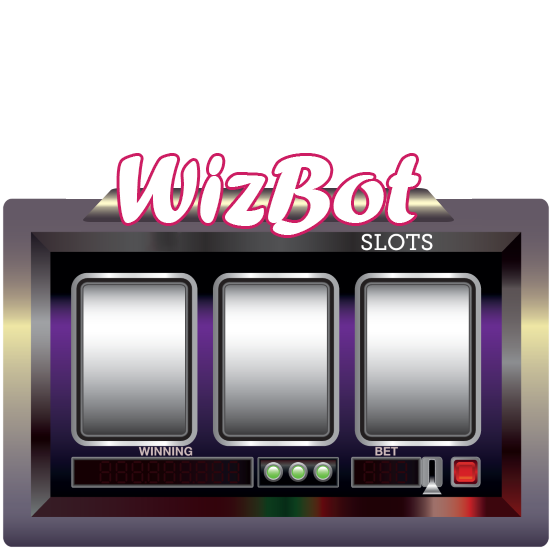
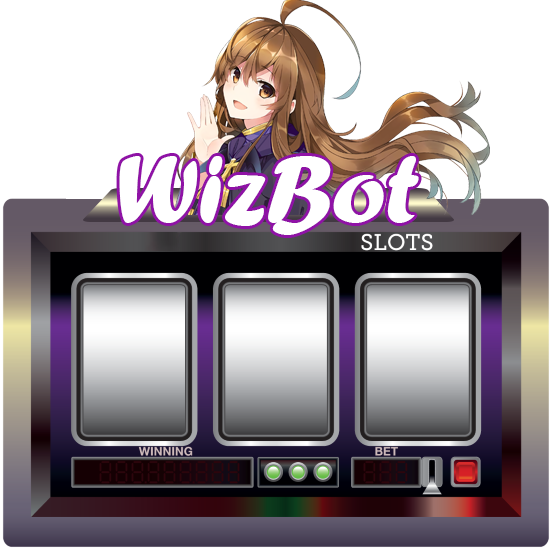
slot max bet increased to 9999

diff --git a/src/WizBot/Modules/Gambling/Commands/Slots.cs b/src/WizBot/Modules/Gambling/Commands/Slots.cs
@@ -145,10 +145,10 @@ namespace WizBot.Modules.Gambling
                         return;
                     }
 
-                    if (amount > 999)
+                    if (amount > 9999)
                     {
-                        GetText("slot_maxbet", 999 + CurrencySign);
-                        await ReplyErrorLocalized("max_bet_limit", 999 + CurrencySign).ConfigureAwait(false);
+                        GetText("slot_maxbet", 9999 + CurrencySign);
+                        await ReplyErrorLocalized("max_bet_limit", 9999 + CurrencySign).ConfigureAwait(false);
                         return;
                     }
 

diff --git a/src/WizBot/Services/Impl/ImagesService.cs b/src/WizBot/Services/Impl/ImagesService.cs
@@ -21,7 +21,7 @@ namespace WizBot.Services.Impl
         private const string _currencyImagesPath = _basePath + "currency";
         private const string _diceImagesPath = _basePath + "dice";
 
-        private const string _slotBackgroundPath = _basePath + "slots/background.png";
+        private const string _slotBackgroundPath = _basePath + "slots/background2.png";
         private const string _slotNumbersPath = _basePath + "slots/numbers/";
         private const string _slotEmojisPath = _basePath + "slots/emojis/";
 
